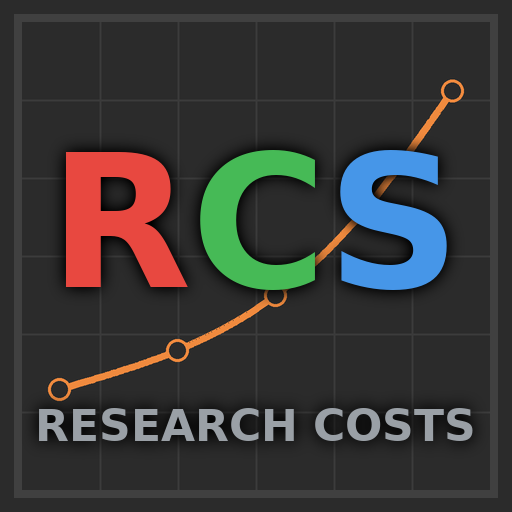
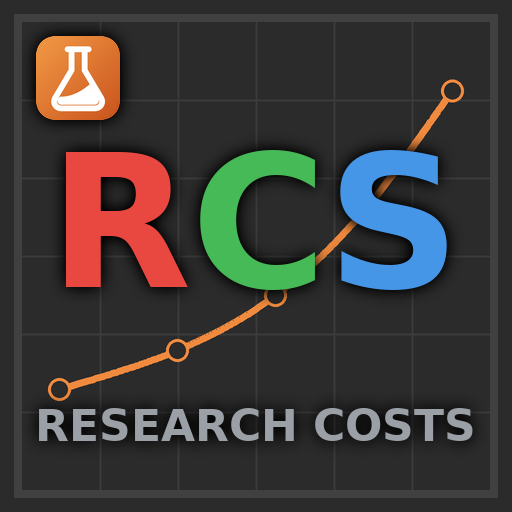
Thumbnail: add the page's lab-flask mark in the top-left corner
gen_thumbnail.py reads the i-brand symbol from site/index.html, so the card,
the page header and the favicon share one drawing: ImageMagick rasterizes
the flask, Pillow draws the orange gradient tile under it, with the same
black halo as the letters.

Changed region(s): [[0.0625, 0.0625, 0.25, 0.25]]

diff --git a/tools/gen_thumbnail.py b/tools/gen_thumbnail.py
@@ -17,11 +17,20 @@ log-scale grid, in the companion page's orange. As on LTR's card, a centred
 black halo separates the letters from what is under them without changing
 the letters themselves.
 
+In the top-left corner, where the curve leaves room, sits the companion
+page's brand mark: the lab flask on its orange tile. It is read from the
+i-brand symbol in site/index.html, so the page, its favicon and this card
+share one drawing. ImageMagick rasterizes the flask (it handles the arcs but
+not SVG gradients); the tile and its gradient are drawn here.
+
 Drawn at SUPERSAMPLE times the size and scaled down, so the curve stays smooth.
 
 Run from the repo root:  python3 tools/gen_thumbnail.py
 """
 
+import io
+import re
+import subprocess
 from pathlib import Path
 
 from PIL import Image, ImageDraw, ImageFilter, ImageFont
@@ -56,6 +65,41 @@ CURVE_WIDTH = 7
 # The curve: low and flat on the left, climbing to the top right, as a
 # "hard late game" curve looks on the page's log scale. Normalised 0..1.
 CURVE_POINTS = [(0.0, 0.16), (0.3, 0.26), (0.55, 0.40), (0.78, 0.62), (1.0, 0.92)]
+
+
+# The brand mark: size and top-left corner, inside the frame.
+MARK_SIZE = 84
+MARK_POS = (36, 36)
+
+
+def brand_mark(root):
+    """The page's i-brand symbol as an RGBA tile, MARK_SIZE square."""
+    html = (root / "site/index.html").read_text()
+    symbol = re.search(r'<symbol id="i-brand" viewBox="0 0 32 32">(.*?)</symbol>', html, re.S).group(1)
+    outline, liquid = re.findall(r'<path d="([^"]+)"', symbol)
+    stops = re.search(r'<linearGradient id="brand-fill"(.*?)</linearGradient>', html, re.S).group(1)
+    top, bottom = (tuple(int(c[i:i + 2], 16) for i in (1, 3, 5)) for c in re.findall(r'stop-color="(#[0-9a-fA-F]{6})"', stops))
+
+    big = MARK_SIZE * 4
+    svg = (f'<svg xmlns="http://www.w3.org/2000/svg" viewBox="0 0 32 32" width="{big}" height="{big}">'
+           f'<path d="{outline}" fill="none" stroke="#fff" stroke-width="2.2" stroke-linecap="round" stroke-linejoin="round"/>'
+           f'<path d="{liquid}" fill="#fff"/></svg>')
+    png = subprocess.run(["convert", "-background", "none", "svg:-", "png:-"], input=svg.encode(),
+                         capture_output=True, check=True).stdout
+    flask = Image.open(io.BytesIO(png)).convert("RGBA").resize((big, big), Image.Resampling.LANCZOS)
+
+    # Diagonal gradient, top-left to bottom-right, as the SVG's x1=0 y1=0 x2=1 y2=1.
+    tile = Image.new("RGBA", (big, big))
+    px = tile.load()
+    for y in range(big):
+        for x in range(big):
+            t = (x + y) / (2 * (big - 1))
+            px[x, y] = tuple(round(top[i] + (bottom[i] - top[i]) * t) for i in range(3)) + (255,)
+    mask = Image.new("L", (big, big), 0)
+    ImageDraw.Draw(mask).rounded_rectangle([0, 0, big - 1, big - 1], radius=big * 7 / 32, fill=255)
+    tile.putalpha(mask)
+    tile.alpha_composite(flask)
+    return tile.resize((MARK_SIZE, MARK_SIZE), Image.Resampling.LANCZOS)
 
 
 def smooth(points, steps=64):
@@ -117,11 +161,17 @@ def glow_for(layer):
     return halo
 
 
-def build():
+def build(root):
     img = underlay()
     d = ImageDraw.Draw(img)
     far = SIZE - 1 - FRAME_INSET
     d.rectangle([FRAME_INSET, FRAME_INSET, far, far], outline=FRAME, width=FRAME_WIDTH)
+
+    mark = brand_mark(root)
+    layer = Image.new("RGBA", img.size, (0, 0, 0, 0))
+    layer.paste(mark, MARK_POS, mark)
+    img.paste(glow_for(layer), (0, 0), glow_for(layer))
+    img.paste(layer, (0, 0), layer)
 
     layer, (left, top, right, bottom) = draw_letters()
     offset = (round(SIZE / 2 - (left + right) / 2), round(LETTERS_CENTRE_Y - (top + bottom) / 2))
@@ -141,7 +191,7 @@ def build():
 def main():
     root = Path(__file__).resolve().parent.parent
     out = root / "thumbnail.png"
-    build().save(out, optimize=True)
+    build(root).save(out, optimize=True)
     print(f"wrote {out}")
 
 
